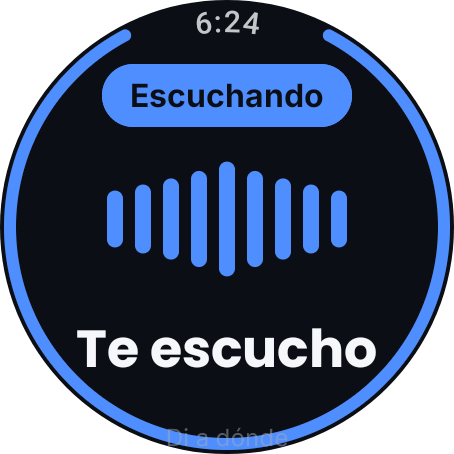
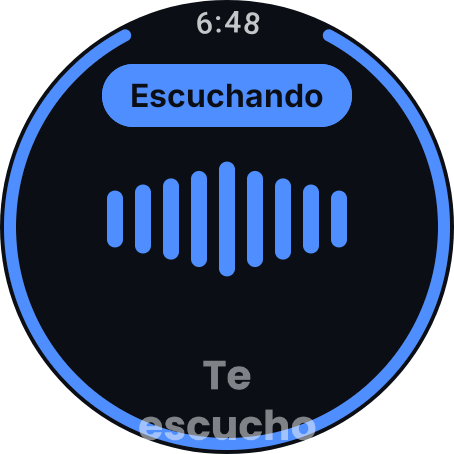
Dejar el título de Escuchando fijo a 34 sp en dos líneas como en el diseño A2

diff --git a/watchapp/app/src/main/java/com/rumbo/watchapp/presentation/screens/ListeningScreen.kt b/watchapp/app/src/main/java/com/rumbo/watchapp/presentation/screens/ListeningScreen.kt
@@ -1,12 +1,9 @@
 package com.rumbo.watchapp.presentation.screens
 
-import androidx.compose.foundation.layout.BoxWithConstraints
 import androidx.compose.runtime.Composable
-import androidx.compose.runtime.remember
 import androidx.compose.ui.Modifier
 import androidx.compose.ui.semantics.heading
 import androidx.compose.ui.semantics.semantics
-import androidx.compose.ui.text.rememberTextMeasurer
 import androidx.compose.ui.text.style.TextAlign
 import androidx.compose.ui.unit.sp
 import androidx.wear.compose.material3.MaterialTheme
@@ -19,9 +16,9 @@ import com.rumbo.watchapp.presentation.theme.Primary
 
 /**
  * Escuchando (diseño A2): anillo y badge en el azul primario, nueve barras que suben y bajan con
- * la voz real ([level], 0 a 1), "Te escucho" (34 sp si entra en una línea), "Di a dónde quieres
- * ir" y "Cancelar", que deja de grabar sin enviar. TalkBack anuncia "Escuchando" (título de la
- * pantalla y badge); las barras y el anillo son decorativos.
+ * la voz real ([level], 0 a 1), "Te escucho" (34 sp), "Di a dónde quieres ir" y "Cancelar", que
+ * deja de grabar sin enviar. TalkBack anuncia "Escuchando" (título de la pantalla y badge); las
+ * barras y el anillo son decorativos.
  */
 @Composable
 fun ListeningScreen(level: Float, onCancel: () -> Unit) {
@@ -31,7 +28,13 @@ fun ListeningScreen(level: Float, onCancel: () -> Unit) {
     ) {
         StateBadge("Escuchando", Primary, announce = true, filled = true)
         VoiceBars(level = level, color = Primary)
-        FittedTitle("Te escucho")
+        Text(
+            text = "Te escucho",
+            modifier = Modifier.semantics { heading() },
+            // Poppins 700 a 34 sp, fijo como en el diseño A2: en la pantalla de 454 px va en dos líneas.
+            style = MaterialTheme.typography.displayMedium.copy(fontSize = 34.sp, lineHeight = 42.sp),
+            textAlign = TextAlign.Center,
+        )
         Text(
             text = "Di a dónde quieres ir",
             style = MaterialTheme.typography.bodyLarge,
@@ -39,34 +42,5 @@ fun ListeningScreen(level: Float, onCancel: () -> Unit) {
             textAlign = TextAlign.Center,
         )
         PillButton("Cancelar", onClick = onCancel)
-    }
-}
-
-// Tamaño del diseño A2 y lo menos que se achica para entrar en una línea.
-private const val TITLE_SP = 34
-private const val TITLE_MIN_SP = 24
-
-/**
- * Título en Poppins 700 a 34 sp (diseño A2) si entra en una línea; si no, el tamaño más grande
- * que entre. En la pantalla redonda de 454 px "Te escucho" a 34 sp mide más que el ancho
- * disponible: partido en dos líneas quedaba contra el borde de abajo, atenuado.
- */
-@Composable
-private fun FittedTitle(text: String) {
-    BoxWithConstraints {
-        val measurer = rememberTextMeasurer()
-        val base = MaterialTheme.typography.displayMedium
-        val style = remember(text, constraints.maxWidth, base) {
-            (TITLE_SP downTo TITLE_MIN_SP)
-                .map { size -> base.copy(fontSize = size.sp, lineHeight = (size * 1.25f).sp) }
-                .firstOrNull { measurer.measure(text, it, maxLines = 1, softWrap = false).size.width <= constraints.maxWidth }
-                ?: base.copy(fontSize = TITLE_MIN_SP.sp, lineHeight = (TITLE_MIN_SP * 1.25f).sp)
-        }
-        Text(
-            text = text,
-            modifier = Modifier.semantics { heading() },
-            style = style,
-            textAlign = TextAlign.Center,
-        )
     }
 }

diff --git a/docs/REQUIREMENTS.md b/docs/REQUIREMENTS.md
@@ -300,7 +300,7 @@ Diseñadas en Claude Design (lienzo "Rumbo — UI del reloj"). La app se prueba 
    - Lugares guardados: lista de píldoras; tocar un lugar pide la ruta y pasa a Confirmar; mantenerlo pulsado ofrece borrarlo con confirmación ("¿Borrar «X»?" Cancelar / Borrar). Si está vacía: "Aún no tienes lugares guardados".
    - Vibraciones (probar vibraciones), desde el botón "Vibraciones" de Inicio (52 dp, "Prueba los patrones"): arriba "Intensidad: sí" / "Intensidad: no" (en texto, no solo en color) con "El reloj varía la fuerza" o "Se distinguen por ritmo y duración"; ajustes "Intensidad: normal" y "Duración: normal" (cada toque pasa al siguiente valor, lo guarda y vibra un ejemplo); botón "Secuencia de demostración"; y un botón por patrón (Recto, Giro próximo, Izquierda, Derecha, Desviado, Sin señal, Llegada) con su descripción en la versión que entiende el reloj ("Izquierda" / "2 pulsos medios"). Al tocar uno vibra (`Vibrator`) y debajo aparecen su nombre y las barras animadas, que arrancan de cero con cada toque para ir a la par con la vibración. En el emulador, que no vibra, se ve la animación y cada patrón queda en Logcat (`Vibracion`).
    - Secuencia de demostración: recorre los 7 patrones en orden; cada uno suena y, al terminar, hay 2 s de pausa (`DEMO_PAUSE_MS`) antes del siguiente. Mientras suena muestra "Demostración", "3 de 7", el nombre en grande en el color del estado (TalkBack lo anuncia con `liveRegion`), sus barras y descripción, y "Detener". Al terminar vuelve a la lista; "Detener" o el gesto de volver cortan la vibración y vuelven a la lista, y volver otra vez va a Inicio.
-2. Escuchando (diseño A2): anillo en el borde en `#4F8EFF` (decorativo); badge "Escuchando" relleno en `#4F8EFF` con texto `#0B0E14`; 9 barras de 8 dp (`VoiceBars`), de 16 a 76 dp de alto con las esquinas redondas, simétricas y más altas al centro, que siguen el nivel real de la voz (`voiceLevel`) con un pequeño desfase del centro hacia afuera, como una onda (en silencio quedan en 16 dp); "Te escucho" en Poppins 700 a 34 sp si entra en una línea (en la pantalla redonda de 454 px no entra: mide ~426 px y hay ~316, así que baja al tamaño más grande que entre, ~26 sp; partido en dos líneas quedaba contra el borde, atenuado); "Di a dónde quieres ir" (20 sp, `#A0A8B8`) y "Cancelar" (52 dp, borde `#2A2F3A`), que asoman abajo y se ven al desplazar. TalkBack anuncia "Escuchando" (título de la pantalla y badge con `liveRegion`); barras y anillo no se leen; "Cancelar" es un botón accesible.
+2. Escuchando (diseño A2): anillo en el borde en `#4F8EFF` (decorativo); badge "Escuchando" relleno en `#4F8EFF` con texto `#0B0E14`; 9 barras de 8 dp (`VoiceBars`), de 16 a 76 dp de alto con las esquinas redondas, simétricas y más altas al centro, que siguen el nivel real de la voz (`voiceLevel`) con un pequeño desfase del centro hacia afuera, como una onda (en silencio quedan en 16 dp); "Te escucho" en Poppins 700 a 34 sp fijo, como en A2 (en la pantalla redonda de 454 px mide ~426 px y la columna tiene ~316, así que va en dos líneas, "Te / escucho", y al reposo queda cerca del borde de abajo); "Di a dónde quieres ir" (20 sp, `#A0A8B8`) y "Cancelar" (52 dp, borde `#2A2F3A`), que asoman abajo y se ven al desplazar. TalkBack anuncia "Escuchando" (título de la pantalla y badge con `liveRegion`); barras y anillo no se leen; "Cancelar" es un botón accesible.
 3. Procesando: badge "Procesando", indicador de carga y "Buscando ruta..." o "Cargando lugares..."; si tarda, "Buscando señal GPS" o "El servidor está despertando, espera un momento" (también dichos en voz alta).
    - Permiso necesario: ícono, la explicación del permiso negado, "Abrir ajustes", "Ir sin notificación" (solo notificaciones), "Inicio" y la pista "En Ajustes, toca Permisos y actívalo".
 4. Confirmar destino: badge, nombre, distancia y tiempo a pie (mientras la app dice el destino en voz alta, el badge se funde en barras como las de Escuchando con un movimiento suave, `SpeakingBars`; ocupan su mismo lugar para que nada se mueva justo cuando se va a tocar "Ir", y TalkBack sigue leyendo el badge); Ir, Cambiar y "Guardar" ("Guardando..." → "Guardado"; si falla, "No pude guardar el lugar"). Si el destino vino de un lugar guardado ya aparece "Guardado".
@@ -346,6 +346,7 @@ Diseñadas en Claude Design (lienzo "Rumbo — UI del reloj"). La app se prueba 
 
 ## 13. Changelog
 
+- **v0.35** (2026-10-29): "Te escucho" vuelve a 34 sp fijo, como en el diseño A2, en dos líneas en la pantalla de 454 px (antes se achicaba a ~26 sp para caber en una). Capturas `03_escuchando` y `26_escuchando_abajo` actualizadas.
 - **v0.34** (2026-10-29): Animación al hablar. `SpeechOutput.speaking` indica si suena una frase (desde que empieza el audio de la voz del reloj o de Gemini, no mientras se descarga). En Confirmar, mientras la app habla, el badge se funde en barras con movimiento suave (`SpeakingBars`, sin nivel real) en el mismo lugar: primero ocupaban un hueco propio, pero empujaban "Ir" contra el borde. El Asistente aún no tiene pantalla en el reloj (RF9 pendiente): las barras se usarán ahí cuando exista. En el emulador no se pudo ver en vivo (no trae voz propia y la cuota gratis de Gemini respondía 429); lo cubren los tests. Tests JUnit de `speaking` (audio sonando, descarga de Gemini, `stop`, frase nueva, voz del reloj). Nueva captura `27_confirmar_hablando`.
 - **v0.33** (2026-10-29): Pantalla Escuchando según el diseño A2: anillo y badge relleno en el azul primario, 9 barras (`VoiceBars`) que se mueven con el nivel real de la voz, "Te escucho" (34 sp si cabe en una línea; en el reloj de 454 px baja a ~26 sp), "Di a dónde quieres ir" y "Cancelar". `StateBadge` gana la variante rellena y `ProgressRing` una decorativa (sin descripción, TalkBack no la lee). Probado en el emulador: en silencio las barras quedan al mínimo y la grabación corta a los 8 s y se envía; "Cancelar" a los 2 s vuelve a Inicio sin pedir nada al backend. En una prueba la grabación se cortó a los ~1,5 s: un pico suelto contaba como voz; ahora la voz debe durar 240 ms seguidos (con el nivel suavizado un pico de una lectura queda dos por encima del umbral). Tests JUnit del mapeo nivel → alto de barras (rango, simetría, centro más alto, crece con la voz, onda) y del pico suelto. Capturas `03_escuchando` y nueva `26_escuchando_abajo`.
 - **v0.32** (2026-10-29): Fin de habla. En vez de grabar 4 s fijos, `RoutePlanningViewModel.listen` graba hasta 1,2 s de silencio tras la voz (mínimo 1 s, máximo 8 s) con `SpeechEndDetector` en el dominio, y expone `voiceLevel` para la pantalla. `cancelListening` detiene sin enviar. Tests JUnit del detector con niveles simulados (corte tras el silencio, pausas entre palabras, mínimo, máximo, ruido) y del ViewModel en tiempo virtual (se detiene solo, a los 8 s sin voz, Cancelar no envía).

diff --git a/CLAUDE.md b/CLAUDE.md
@@ -34,7 +34,7 @@ Proyecto: **Rumbo**, app Wear OS de navegación por vibraciones para personas ci
 - Logcat: `adb logcat -s Nav Vibracion Red` (estados de navegación, patrones de vibración y peticiones al backend).
 - Demo con GPX (`docs/demo`): poner la posición antes de pedir la ruta (`adb emu geo fix -77.278419 1.214997`, primero la longitud; para repetirla, reabrir la app antes); la app ya no inventa el origen. "Sin señal" en el emulador: apagar la ubicación 15 s (`adb shell cmd location set-location-enabled false` y luego `true`); el hueco del GPX no basta.
 
-## Estado (2026-10-29, REQUIREMENTS v0.34)
+## Estado (2026-10-29, REQUIREMENTS v0.35)
 Fases 1–3 completas; fase 4 (asistente y cierre) en curso.
 - Hecho: voz → destino → confirmar (con lugares guardados), ruta a pie, navegación con GPS y vibraciones (giro próximo y maniobra en dos etapas, desvío con recálculo, sin señal, llegada) que se distinguen solo por ritmo en relojes sin control de intensidad, pantalla "Vibraciones" para probarlas (secuencia de demostración y ajustes de intensidad y duración), voz hablada (con barras animadas mientras habla), pantalla Escuchando con barras que siguen la voz real y corte automático al terminar de hablar, UI redonda con TalkBack, servicio en primer plano (sigue con la pantalla apagada), permisos pedidos al necesitarlos con pantalla de explicación, errores de red/GPS en español con un reintento, "Continuar ruta anterior" si el proceso muere, base de datos con historial, rutas verificadas en mapa (`tools/preview_route.py`) con pasos limpios y simulación realista del GPS (`tools/route_to_gpx.py`).
 - Pruebas: 146 pytest y 205 JUnit (incluye la máquina de estados con la ruta real y los tres GPX realistas de `docs/demo`, y 30 recorridos con ruido); pruebas manuales en `docs/PRUEBAS.md`.
